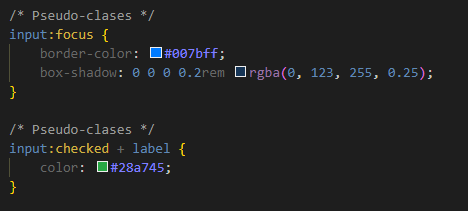
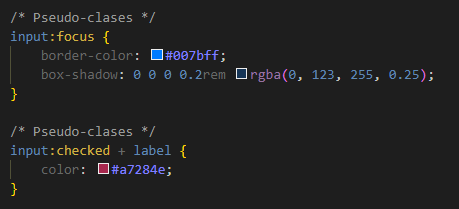
Imagenes y Archivos

diff --git a/Alis_K0/evidencia2/index.html b/Alis_K0/evidencia2/index.html
@@ -1,85 +1,113 @@
 <!DOCTYPE html>
 <html lang="es">
 <head>
-    <meta charset="UTF-8">
-    <meta name="viewport" content="width=device-width, initial-scale=1.0">
-    <title>Evidencia 2 Grupo 52</title>
-    <style>
-        body {
-            font-family: sans-serif;
-            background-color: #f0f0f0;
-            color: #333;
-            margin: 0;
-            padding: 20px;
-            display: flex;
-            flex-direction: column;
-            align-items: center;
-            min-height: 100vh;
-        }
-        h1 {
-            color: #d37e9f;
-            margin-bottom: 10px;
-        }
-        h2 {
-            color: #773f54;
-            margin-bottom: 10px;
-        }
-        .evidencia {
-            background: white;
-            padding: 15px;
-            border-radius: 10px;
-            box-shadow: 0px 0px 10px rgba(0, 0, 0, 0.1);
-            width: 80%;
-            max-width: 600px;
-            margin-bottom: 15px;
-        }
-        a {
-            display: block;
-            color: #007BFF;
-            text-decoration: none;
-            margin: 5px 0;
-        }
-        a:hover {
-            text-decoration: underline;
-        }
-    </style>
+  <meta charset="UTF-8">
+  <meta name="viewport" content="width=device-width, initial-scale=1.0">
+  <title>Evidencia 2 Grupo 52</title>
+  <style>
+    body {
+      font-family: sans-serif;
+      background-color: #f0f0f0;
+      color: #333;
+      margin: 0;
+      padding: 20px;
+      display: flex;
+      flex-direction: column;
+      align-items: center;
+      min-height: 100vh;
+    }
+    h1 {
+      color: #d37e9f;
+      margin-bottom: 10px;
+    }
+    h2 {
+      color: #773f54;
+      margin-bottom: 10px;
+    }
+    .evidencia {
+      background: white;
+      padding: 20px;
+      border-radius: 10px;
+      box-shadow: 0px 0px 10px rgba(0, 0, 0, 0.1);
+      width: 90%;
+      max-width: 900px;
+      margin-bottom: 15px;
+      text-align: center;
+    }
+    .evidencia img {
+      width: 100%;
+      object-fit: contain;
+      border-radius: 5px;
+      margin-bottom: 10px;
+    }
+    /* Imágenes que contienen "EV2" en el src se muestran más pequeñas */
+    .evidencia img[src*="EV2"] {
+      max-height: 300px;
+    }
+    /* Imágenes que no contienen "EV2" en el src se muestran más grandes */
+    .evidencia img:not([src*="EV2"]) {
+      max-height: 700px;
+    }
+    a {
+      display: block;
+      color: #007BFF;
+      text-decoration: none;
+      margin: 5px 0;
+    }
+    a:hover {
+      text-decoration: underline;
+    }
+  </style>
 </head>
 <body>
-    <h1>Evidencia 2</h1>
-    
-    <div class="evidencia">
-        <h2>Selectores</h2>
-    </div>
+  <h1>Evidencia 2</h1>
+  
+  <div class="evidencia">
+    <h2>Selectores</h2>
+  </div>
 
-    <div class="evidencia">
-        <h2>Selectores Basicos</h2>
-        <img src="img/EV2_SBasico1.png" alt="">
-        <img src="img/EV2_SBasico2.png" alt="">
-        <img src="img/EV2_SBasico3.png" alt="">
-        <img src="img/EV2_SBasico4.png" alt="">
-    </div>
+  <div class="evidencia">
+    <h2>Selectores Básicos</h2>
+    <img src="img/EV2_SBasico1.png" alt="Selector básico">
+    <img src="img/SUniversalClase.png" alt="Selector universal de clase">
+    <img src="img/EV2_SBasico2.png" alt="Selector básico">
+    <img src="img/STipo.png" alt="Selector de tipo">
+    <img src="img/EV2_SBasico3.png" alt="Selector básico">
+    <img src="img/SID.png" alt="Selector por ID">
+    <img src="img/EV2_SBasico4.png" alt="Selector básico">
+    <img src="img/SUniversalClase.png" alt="Selector universal de clase">
+  </div>
 
-    <div class="evidencia">
-        <h2>Selectores por Atributo</h2>
-        <img src="img/EV2_SAtributo1.png" alt="">
-    </div>
+  <div class="evidencia">
+    <h2>Selectores por Atributo</h2>
+    <img src="img/EV2_SAtributo1.png" alt="Selector por atributo">
+    <img src="img/SAtributo1.png" alt="Selector por atributo 1">
+    <img src="img/SAtributo2.png" alt="Selector por atributo 2">
+  </div>
 
-    <div class="evidencia">
-        <h2>Combinadores CSS</h2>
-        <img src="img/EV2_SCombinadores1.png" alt="">
-        <img src="img/EV2_SCombinadores2.png" alt="">
-        <img src="img/EV2_SCombinadores3.png" alt="">
-    </div>
+  <div class="evidencia">
+    <h2>Combinadores CSS</h2>
+    <img src="img/EV2_SCombinadores1.png" alt="Combinadores CSS">
+    <img src="img/SDescendiente.png" alt="Selector descendente">
+    <img src="img/EV2_SCombinadores2.png" alt="Combinadores CSS">
+    <img src="img/SHAdyacente.png" alt="Selector adyacente">
+    <img src="img/EV2_SCombinadores3.png" alt="Combinadores CSS">
+    <img src="img/SCombinadores.png" alt="Selector de combinadores">
+  </div>
 
-    <div class="evidencia">
-        <h2>Pseudo-Clases</h2>
-        <img src="img/EV2_SPseClase1.png" alt="">
-        <img src="img/EV2_SPseClase2.png" alt="">
-    </div>
+  <div class="evidencia">
+    <h2>Pseudo-Clases</h2>
+    <img src="img/EV2_SPseClase1.png" alt="Pseudo-Clase">
+    <img src="img/PseClase1.png" alt="Pseudo-Clase 1">
+    <img src="img/EV2_SPseClase2.png" alt="Pseudo-Clase">
+    <img src="img/PseClase2.png" alt="Pseudo-Clase 2">
+  </div>
 
-    <div class="evidencia">
-        <h2>Pseudo-Elementos</h2>
-        <img src="img/EV2_SPseElemen1.png" alt="">
-    </div>
+  <div class="evidencia">
+    <h2>Pseudo-Elementos</h2>
+    <img src="img/EV2_SPseElemen1.png" alt="Pseudo-Elemento">
+    <img src="img/PseElemen1.png" alt="Pseudo-Elemento 1">
+    <img src="img/PseElemen2.png" alt="Pseudo-Elemento 2">
+  </div>
 </body>
 </html>

diff --git a/Alis_K0/index.html b/Alis_K0/index.html
@@ -108,14 +108,14 @@
         <h2>Práctica 1</h2>
         <p>Crear una carpeta llamada Evidencia 2 y modificar la página pasatiempos. Los cambios consistirán en agregar todos los selectores.Para cada selector se debe colocar una imagen del código CSS y una imagen del resultado.</p>
         <p>Fecha commits: 26 de febrero al 5 de marzo.</p>
-        <a href="https://github.com/FDW52EJ2025/website52/commits/main/?author=Alis-K0&since=2025-02-17&until=2025-02-26" target="_blank">Link Commits</a>
+        <a href="https://github.com/FDW52EJ2025/website52/commits/main/?author=Alis-K0&since=2025-02-26&until=2025-03-05" target="_blank">Link Commits</a>
     </div>
 
     <div class="evidencia">
         <h2>Práctica 2</h2>
         <p>Agregar los restantes selectores.</p>
         <p>Fecha commits: 5 de marzo al 10 de marzo.</p>
-        <a href="https://github.com/FDW52EJ2025/website52/commits/main/?author=Alis-K0&since=2025-02-17&until=2025-02-26" target="_blank">Link Commits</a>
+        <a href="https://github.com/FDW52EJ2025/website52/commits/main/?author=Alis-K0&since=2025-02-26&until=2025-03-06" target="_blank">Link Commits</a>
     </div>
 </body>
 </html>

diff --git a/Alis_K0/evidencia2/style2.css b/Alis_K0/evidencia2/style2.css
@@ -38,7 +38,7 @@ nav a {
 
 /* Pseudo-clases */
 nav a:hover {
-    color: #adb5bd; 
+    color: #babdad; 
     text-decoration: none; 
 }
 
@@ -181,7 +181,7 @@ input:focus {
 
 /* Pseudo-clases */
 input:checked + label {
-    color: #28a745; 
+    color: #a7284e; 
 }
 
 /* Pseudo-elementos */
@@ -205,3 +205,22 @@ p::before {
     text-shadow: 2px 2px 4px rgba(0, 0, 0, 0.3);
     letter-spacing: 3px;
 }
+
+table {
+    width: 100%;
+    border-collapse: collapse;
+    margin-top: 20px;
+  }
+  table th,
+  table td {
+    padding: 12px;
+    border: 1px solid #dee2e6;
+    text-align: center;
+  }
+  table th {
+    background-color: #e9ecef;
+    font-weight: bold;
+  }
+  table tr:nth-child(even) {
+    background-color: #f8f9fa;
+  }

diff --git a/Alis_K0/evidencia2/documentales.html b/Alis_K0/evidencia2/documentales.html
@@ -9,7 +9,7 @@
 <body>
     <header>
         <div class="encabezado">
-            <h1><mark>Pasatiempos</mark></h1>
+            <h1 class="titulo-pasatiempos">Pasatiempos</h1>
             <nav>
                 <a href="pasatiempos_ver2.0.html"><b>Inicio</b></a>
                 <a href="documentales.html"><b>Documentales</b></a>
@@ -49,7 +49,7 @@
             </section>
             <footer>
                 <hr>
-                <small>Última actualización: <time datetime="18-02-2025">18 de febrero de 2025</time></small>
+                <small>Última actualización: <time datetime="06-03-2025">06 de Marzo de 2025</time></small>
             </footer>
         </article>
     </main>

diff --git a/Alis_K0/evidencia2/musica.html b/Alis_K0/evidencia2/musica.html
@@ -55,7 +55,7 @@
             </section>
             <footer>
                 <hr>
-                <small>Última actualización: <time datetime="18-02-2025">18 de febrero de 2025</time></small>
+                <small>Última actualización: <time datetime="06-03-2025">06 de Marzo de 2025</time></small>
             </footer>
         </article>
     </main>

diff --git a/Alis_K0/evidencia2/otros.html b/Alis_K0/evidencia2/otros.html
@@ -44,7 +44,7 @@
             </section>
             <footer>
                 <hr>
-                <small>Última actualización: <time datetime="18-02-2025">18 de febrero de 2025</time></small>
+                <small>Última actualización: <time datetime="06-03-2025">06 de Marzo de 2025</time></small>
             </footer>
         </article>
     </main>

diff --git a/Alis_K0/evidencia2/pasatiempos_ver2.0.html b/Alis_K0/evidencia2/pasatiempos_ver2.0.html
@@ -58,7 +58,7 @@
             </section>
             <footer>
                 <hr>
-                <small>Última actualización: <time datetime="18-02-2025">18 de febrero de 2025</time></small>
+                <small>Última actualización: <time datetime="06-03-2025">06 de Marzo de 2025</time></small>
             </footer>
         </article>
     </main>

diff --git a/Alis_K0/evidencia2/shopping.html b/Alis_K0/evidencia2/shopping.html
@@ -47,7 +47,7 @@
             </section>
             <footer>
                 <hr>
-                <small>Última actualización: <time datetime="18-02-2025">18 de febrero de 2025</time></small>
+                <small>Última actualización: <time datetime="06-03-2025">06 de Marzo de 2025</time></small>
             </footer>
         </article>
     </main>

diff --git a/Alis_K0/evidencia2/videojuegos.html b/Alis_K0/evidencia2/videojuegos.html
@@ -66,7 +66,7 @@
           </table>
           <footer>
               <hr>
-              <small>Última actualización: <time datetime="18-02-2025">18 de febrero de 2025</time></small>
+              <small>Última actualización: <time datetime="06-03-2025">06 de Marzo de 2025</time></small>
           </footer>
       </article>
   </main>
